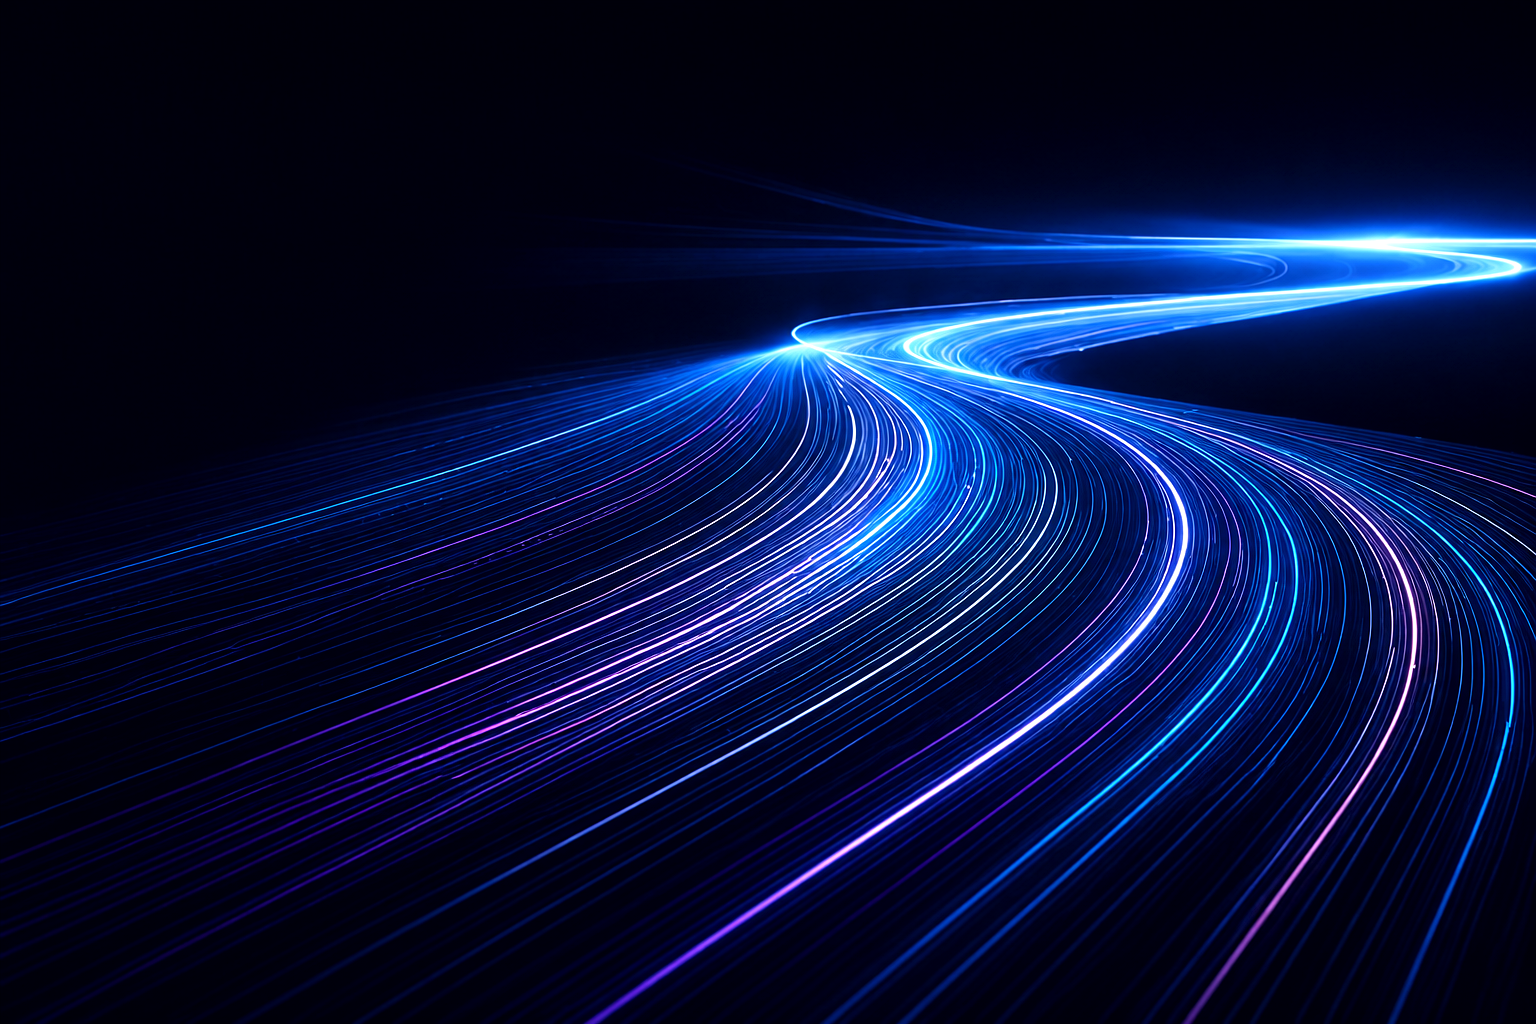
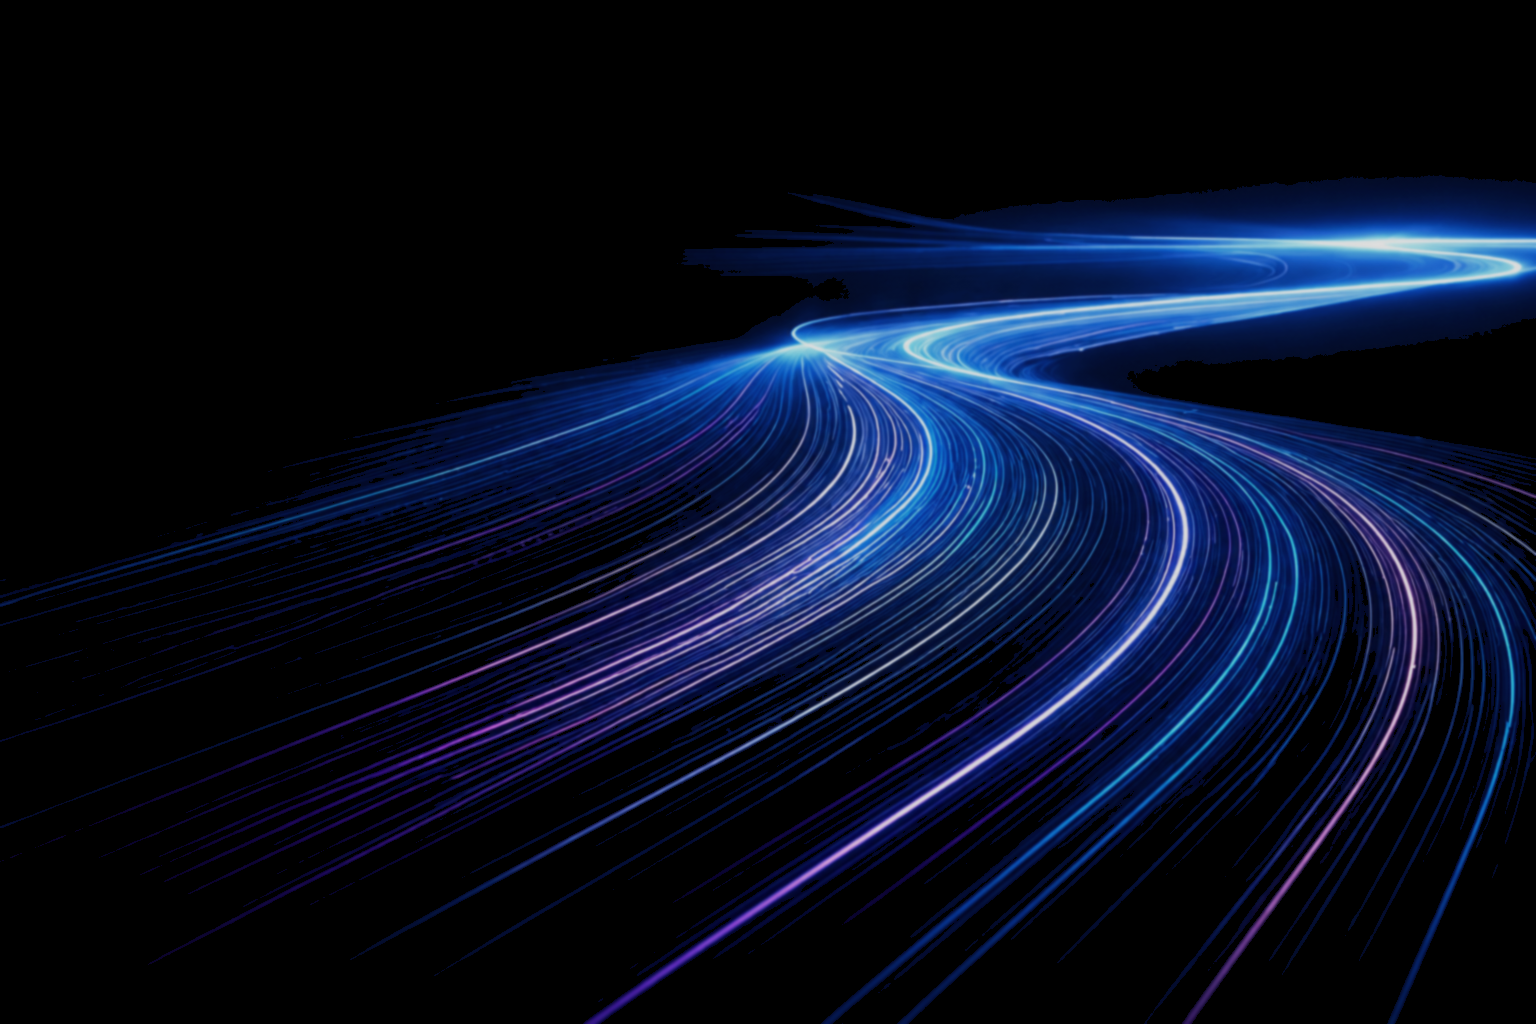
7/30.2

diff --git a/src/components/sections/cases/CaseStudyGrid.tsx b/src/components/sections/cases/CaseStudyGrid.tsx
@@ -1,3 +1,5 @@
+"use client";
+
 import Image from "next/image";
 import { useTranslations } from "next-intl";
 import { Button } from "@/components/ui/Button";
@@ -17,43 +19,48 @@ function CaseStudyCard({ item }: { item: CaseStudy }) {
   const t = useTranslations("common");
 
   return (
-    <article className="flex h-full flex-col overflow-hidden rounded-xl border border-border bg-white shadow-card">
-      <div className="relative aspect-[16/10] overflow-hidden">
-        <Image
-          src={item.image}
-          alt=""
-          fill
-          className="object-cover"
-          sizes="(max-width: 768px) 100vw, 25vw"
-        />
-        <span className="absolute left-3 top-3 rounded-md bg-electric px-2.5 py-1 text-[10px] font-bold uppercase tracking-wide text-white">
+    <article className="flex h-full min-h-[34rem] flex-col overflow-hidden rounded-lg border border-border bg-white shadow-card md:min-h-[36rem]">
+      <div className="relative mx-4 mt-4 overflow-hidden rounded-md">
+        <div className="relative aspect-[16/9] w-full">
+          <Image
+            src={item.image}
+            alt=""
+            fill
+            className="object-cover"
+            sizes="(max-width: 768px) 100vw, 22vw"
+          />
+        </div>
+        <span className="absolute left-2.5 top-2.5 rounded bg-electric px-2.5 py-1 text-[10px] font-bold uppercase tracking-wide text-white">
           {item.category}
         </span>
       </div>
 
-      <div className="flex flex-1 flex-col p-5">
-        <h3 className="font-serif text-xl font-semibold leading-snug text-navy">{item.title}</h3>
+      <div className="flex flex-1 flex-col px-5 pb-6 pt-5">
+        <h3 className="font-serif text-[1.15rem] font-semibold leading-snug text-navy md:text-xl">
+          {item.title}
+        </h3>
 
         <div className="mt-5 space-y-4">
           <div>
-            <p className="text-[11px] font-semibold uppercase tracking-[0.14em] text-electric">
-              {t("challenge")}
-            </p>
-            <p className="mt-1.5 text-sm leading-relaxed text-text-muted">{item.challenge}</p>
+            <p className="text-[13px] font-semibold text-electric">{t("challenge")}</p>
+            <p className="mt-1.5 text-[13px] leading-relaxed text-text-gray">{item.challenge}</p>
           </div>
           <div>
-            <p className="text-[11px] font-semibold uppercase tracking-[0.14em] text-electric">
-              {t("valueDelivered")}
-            </p>
-            <p className="mt-1.5 text-sm leading-relaxed text-text-muted">{item.value}</p>
+            <p className="text-[13px] font-semibold text-electric">{t("valueDelivered")}</p>
+            <p className="mt-1.5 text-[13px] leading-relaxed text-text-gray">{item.value}</p>
           </div>
         </div>
 
-        <div className="mt-auto grid grid-cols-2 gap-3 border-t border-border pt-5">
-          {item.metrics.map((metric) => (
-            <div key={metric.label}>
-              <p className="font-serif text-2xl font-semibold text-electric">{metric.value}</p>
-              <p className="mt-1 text-xs leading-snug text-text-muted">{metric.label}</p>
+        <div className="mt-auto grid grid-cols-2 border-t border-border pt-5">
+          {item.metrics.map((metric, index) => (
+            <div
+              key={metric.label}
+              className={index === 0 ? "border-r border-border pr-3" : "pl-3"}
+            >
+              <p className="font-serif text-[1.65rem] font-semibold leading-none text-electric">
+                {metric.value}
+              </p>
+              <p className="mt-1.5 text-[11px] leading-snug text-text-gray">{metric.label}</p>
             </div>
           ))}
         </div>
@@ -80,23 +87,23 @@ export function CaseStudyGrid({
   const displayed = limit ? items.slice(0, limit) : items;
 
   return (
-    <SectionContainer variant="subtle">
+    <SectionContainer variant="white">
       {showHeader && (
-        <div className="mb-10 flex flex-col gap-6 md:mb-12 md:flex-row md:items-end md:justify-between">
+        <div className="mb-10 flex flex-col gap-5 md:mb-12 md:flex-row md:items-start md:justify-between md:gap-8">
           <div className="max-w-2xl">
             <p className="eyebrow">{t("eyebrow")}</p>
-            <h2 className="font-serif text-3xl font-medium leading-tight text-navy md:text-[2.25rem]">
+            <h2 className="font-serif text-3xl font-medium leading-tight text-navy md:text-[2.35rem]">
               {t("title")}
             </h2>
           </div>
           {showViewAll && (
-            <Button href="/cas-d-usage" variant="outline-blue" className="shrink-0">
+            <Button href="/cas-d-usage" variant="outline-blue" className="shrink-0 self-start md:mt-7">
               {tCommon("viewAllCases")}
             </Button>
           )}
         </div>
       )}
-      <div className="grid gap-6 sm:grid-cols-2 xl:grid-cols-4">
+      <div className="grid gap-5 sm:grid-cols-2 xl:grid-cols-4 xl:gap-6">
         {displayed.map((item) => (
           <CaseStudyCard key={item.id} item={item} />
         ))}

diff --git a/src/components/sections/home/ValuePillars.tsx b/src/components/sections/home/ValuePillars.tsx
@@ -1,3 +1,5 @@
+"use client";
+
 import { useTranslations } from "next-intl";
 import { Icon, pillarIcons } from "@/components/icons/Icons";
 import { SectionContainer } from "@/components/ui/SectionContainer";
@@ -8,27 +10,34 @@ export function ValuePillars() {
 
   return (
     <SectionContainer variant="white">
-      <div className="grid gap-12 lg:grid-cols-[minmax(0,0.95fr)_minmax(0,1.35fr)] lg:gap-16">
+      <div className="grid items-start gap-10 lg:grid-cols-[minmax(0,0.9fr)_minmax(0,1.7fr)] lg:gap-12 xl:gap-16">
         <div>
           <p className="eyebrow">{t("eyebrow")}</p>
-          <h2 className="max-w-md font-serif text-3xl font-medium leading-tight tracking-tight text-navy md:text-[2.35rem]">
+          <h2 className="max-w-lg font-serif text-3xl font-medium leading-[1.2] tracking-tight text-navy md:text-[2.35rem]">
             {t.rich("title", {
               accent: (chunks) => <span className="text-electric">{chunks}</span>,
             })}
           </h2>
-          <p className="mt-5 max-w-md text-sm leading-relaxed text-text-muted md:text-base">
+          <p className="mt-5 max-w-md text-[15px] leading-relaxed text-text-gray">
             {t("intro")}
           </p>
         </div>
 
-        <div className="grid gap-8 sm:grid-cols-2 xl:grid-cols-4 xl:gap-6">
+        <div className="grid gap-8 sm:grid-cols-2 xl:grid-cols-4 xl:gap-0">
           {items.map((item, index) => (
-            <article key={item.title} className="min-w-0">
-              <Icon name={pillarIcons[index]} className="mb-5 h-8 w-8 text-electric" />
+            <article
+              key={item.title}
+              className={`min-w-0 xl:px-5 ${
+                index > 0 ? "xl:border-l xl:border-border" : "xl:pl-0"
+              } ${index === items.length - 1 ? "xl:pr-0" : ""}`}
+            >
+              <Icon name={pillarIcons[index]} className="mb-5 h-9 w-9 text-electric" />
               <h3 className="font-sans text-[15px] font-bold leading-snug text-navy">
                 {item.title}
               </h3>
-              <p className="mt-3 text-sm leading-relaxed text-text-muted">{item.description}</p>
+              <p className="mt-3 text-[13px] leading-relaxed text-text-gray">
+                {item.description}
+              </p>
             </article>
           ))}
         </div>

diff --git a/src/components/sections/home/HeroLightArtwork.tsx b/src/components/sections/home/HeroLightArtwork.tsx
@@ -1,8 +1,8 @@
 "use client";
 
 /**
- * Crisp vector light-ribbon for the hero right side.
- * SVG stays sharp at any screen size (avoids soft upscaled raster).
+ * Light trails use mix-blend-mode:screen so black plate vanishes into navy-deep.
+ * Left/right colors stay identical; trails stay soft (not over-sharp).
  */
 export function HeroLightArtwork() {
   return (
@@ -10,17 +10,7 @@ export function HeroLightArtwork() {
       className="pointer-events-none absolute inset-0 overflow-hidden"
       aria-hidden="true"
     >
-      <div
-        className="absolute inset-0"
-        style={{
-          background: `
-            radial-gradient(ellipse 50% 60% at 78% 55%, rgba(5,105,255,0.2), transparent 65%),
-            radial-gradient(ellipse 35% 40% at 90% 40%, rgba(22,188,235,0.12), transparent 55%)
-          `,
-        }}
-      />
-
-      <div className="absolute top-[2%] bottom-0 right-0 w-full sm:w-[82%] lg:w-[74%]">
+      <div className="absolute inset-y-0 right-0 w-full sm:w-[78%] lg:w-[68%]">
         {/* eslint-disable-next-line @next/next/no-img-element */}
         <img
           src="/hero/trails-exact.png"
@@ -29,16 +19,21 @@ export function HeroLightArtwork() {
           height={1024}
           decoding="async"
           fetchPriority="high"
-          className="h-full w-full object-contain object-right-bottom sm:object-[100%_55%]"
+          className="h-full w-full object-cover object-[5%_55%] mix-blend-screen"
+          style={{ opacity: 0.82 }}
         />
 
+        {/* Soft veil into the text side */}
         <div
           className="absolute inset-0"
           style={{
             background: `
-              linear-gradient(90deg, #020B2B 0%, rgba(2,11,43,0.88) 5%, rgba(2,11,43,0.3) 20%, transparent 38%),
-              linear-gradient(180deg, rgba(2,11,43,0.22) 0%, transparent 12%),
-              linear-gradient(0deg, rgba(2,11,43,0.15) 0%, transparent 14%)
+              linear-gradient(90deg,
+                #010A29 0%,
+                rgba(1,10,41,0.65) 14%,
+                rgba(1,10,41,0.2) 32%,
+                transparent 50%
+              )
             `,
           }}
         />

diff --git a/src/components/layout/Header.tsx b/src/components/layout/Header.tsx
@@ -99,24 +99,26 @@ export function Header() {
       </div>
 
       {mobileOpen && (
-        <div className="border-t border-border bg-white px-6 py-6 xl:hidden">
-          <nav className="flex flex-col gap-5" aria-label="Mobile">
-            {navItems.map((item) => (
-              <Link
-                key={item.key}
-                href={item.href}
-                className="text-base text-text-gray"
-                onClick={() => setMobileOpen(false)}
-              >
-                {t(item.key)}
-              </Link>
-            ))}
-          </nav>
-          <div className="mt-8 flex items-center justify-between border-t border-border pt-6">
-            <LanguageSwitcher />
-            <Button href="/contact" variant="primary" showArrow>
-              {t("cta")}
-            </Button>
+        <div className="border-t border-border bg-white py-6 xl:hidden">
+          <div className="container-grid">
+            <nav className="flex flex-col gap-5" aria-label="Mobile">
+              {navItems.map((item) => (
+                <Link
+                  key={item.key}
+                  href={item.href}
+                  className="text-base text-text-gray"
+                  onClick={() => setMobileOpen(false)}
+                >
+                  {t(item.key)}
+                </Link>
+              ))}
+            </nav>
+            <div className="mt-8 flex items-center justify-between border-t border-border pt-6">
+              <LanguageSwitcher />
+              <Button href="/contact" variant="primary" showArrow>
+                {t("cta")}
+              </Button>
+            </div>
           </div>
         </div>
       )}

diff --git a/src/components/icons/Icons.tsx b/src/components/icons/Icons.tsx
@@ -46,31 +46,26 @@ const icons = {
   vision: (
     <>
       <circle cx="12" cy="12" r="8" />
-      <circle cx="12" cy="12" r="3" />
-      <path strokeLinecap="round" d="M12 4v2M12 18v2M4 12h2M18 12h2" />
-      <path strokeLinecap="round" strokeLinejoin="round" d="M16 8l2-3" />
+      <circle cx="12" cy="12" r="2.5" />
+      <path strokeLinecap="round" strokeLinejoin="round" d="M14.5 9.5L20 4M17 4h3v3" />
     </>
   ),
   execution: (
     <>
-      <path strokeLinecap="round" strokeLinejoin="round" d="M4 19V9l4 2 4-4 4 3 4-2v11" />
+      <path strokeLinecap="round" strokeLinejoin="round" d="M4 19V10l3 2 3-5 3 3 3-2v11" />
       <path strokeLinecap="round" d="M4 19h16" />
-      <path strokeLinecap="round" strokeLinejoin="round" d="M16 9l3-4" />
+      <path strokeLinecap="round" strokeLinejoin="round" d="M16 8l3-4h-3" />
     </>
   ),
   anchor: (
     <>
+      <circle cx="12" cy="8" r="3" />
       <path
         strokeLinecap="round"
         strokeLinejoin="round"
-        d="M9 18h6M12 14v4M12 8a2 2 0 100-4 2 2 0 000 4z"
+        d="M6 20c0-3.5 2.5-6 6-6s6 2.5 6 6"
       />
-      <path
-        strokeLinecap="round"
-        strokeLinejoin="round"
-        d="M8 11c0 2.5 1.5 4 4 5 2.5-1 4-2.5 4-5"
-      />
-      <path d="M9 9.5C7 10 5.5 12 5.5 14.5S8 19 12 19s6.5-2 6.5-4.5S17 10 15 9.5" />
+      <path strokeLinecap="round" d="M12 11v3M10.5 13.5h3" />
     </>
   ),
   value: (

diff --git a/tailwind.config.ts b/tailwind.config.ts
@@ -25,7 +25,7 @@ const config: Config = {
         serif: ["var(--font-serif)", "Georgia", "serif"],
       },
       maxWidth: {
-        content: "74rem",
+        content: "100rem",
       },
       boxShadow: {
         card: "0 8px 30px rgba(7, 30, 97, 0.06)",

diff --git a/src/app/globals.css b/src/app/globals.css
@@ -24,7 +24,10 @@
 
 @layer components {
   .container-grid {
-    @apply mx-auto w-full max-w-content px-5 sm:px-8 lg:px-10;
+    @apply mx-auto w-full;
+    max-width: 100%;
+    padding-left: 4cm;
+    padding-right: 4cm;
   }
 
   .section-padding {
